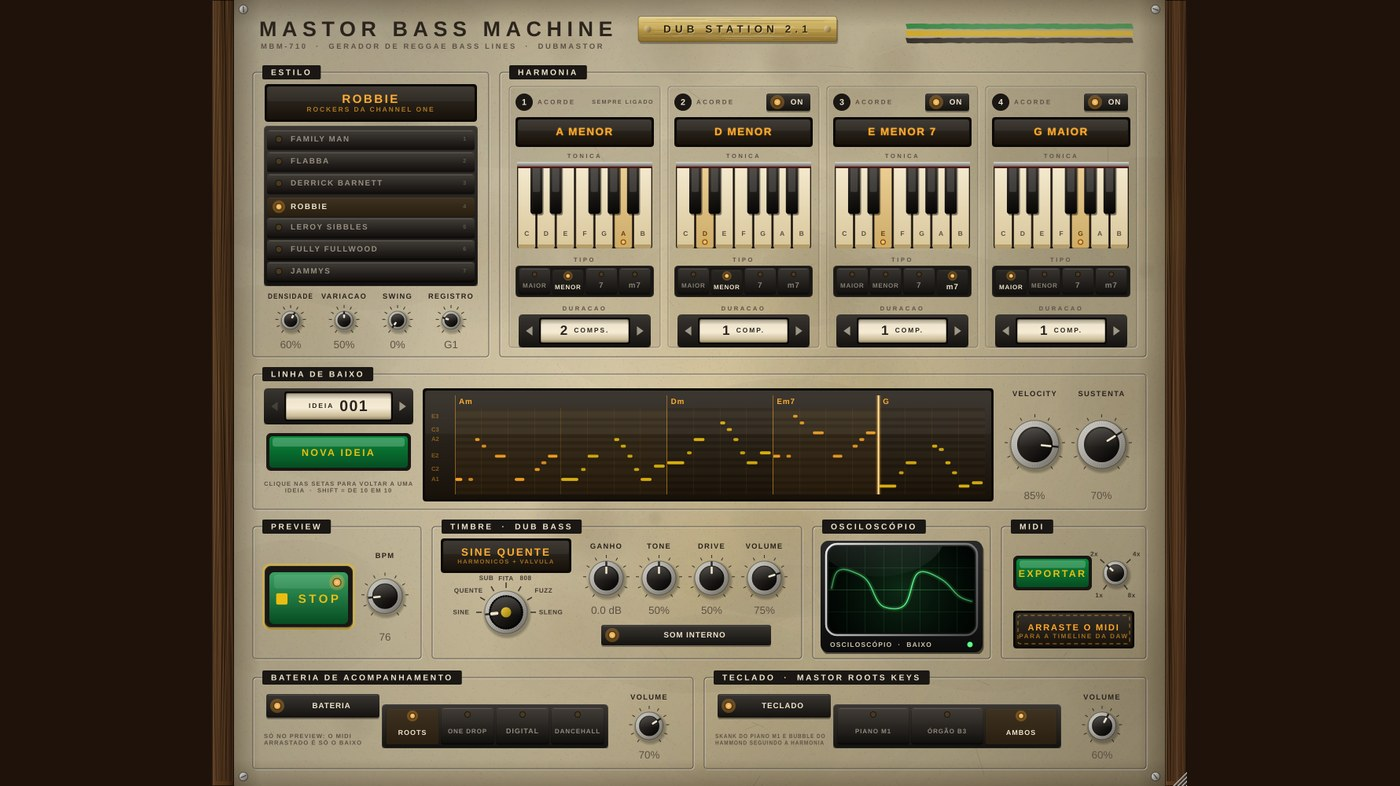
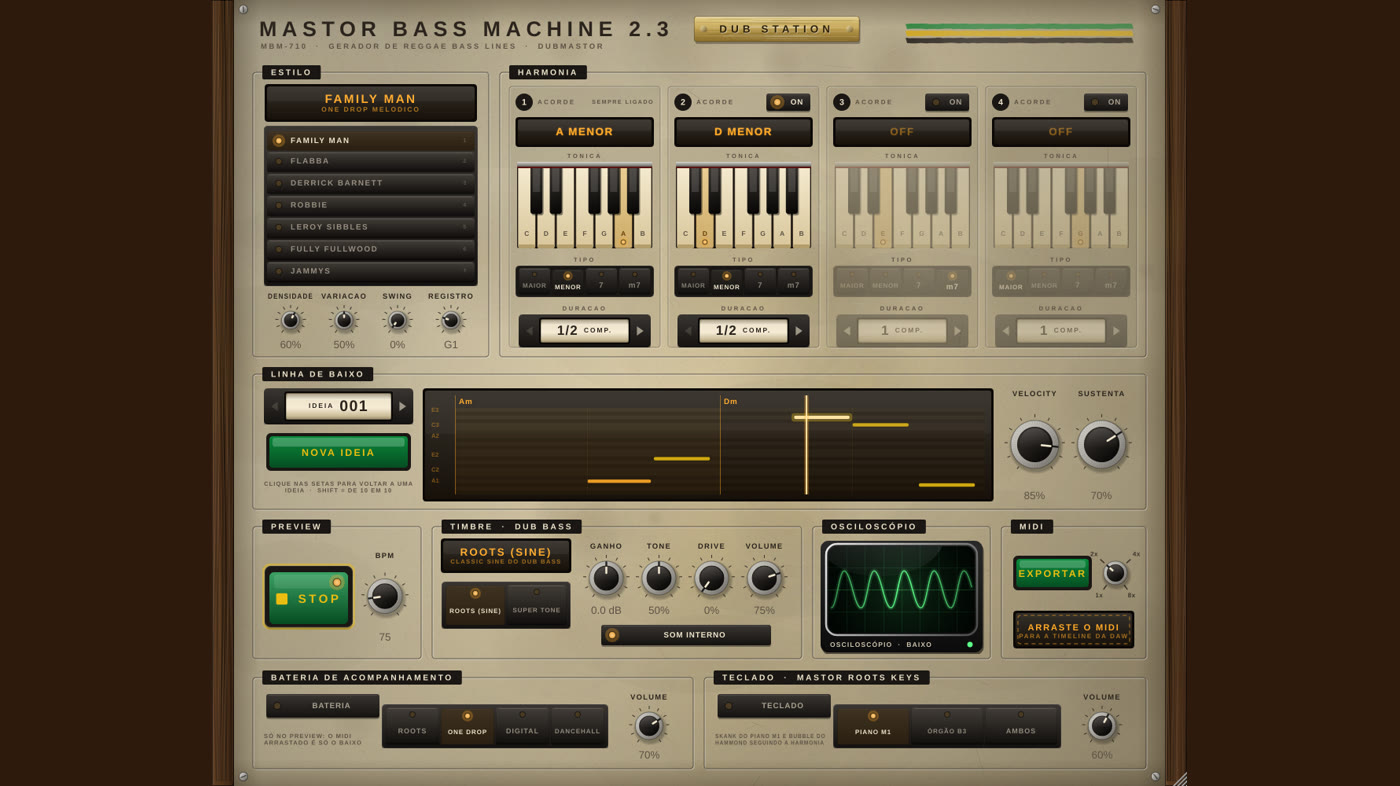
Site: Mastor Bass Machine 2.3 (som de fábrica do Dub Bass, Roots Sine / Super Tone, versão no título)
Claude-Session: https://claude.ai/code/session_01DJAeyZbiJ7iwjCqM3GUBFu

diff --git a/site/index.html b/site/index.html
@@ -327,21 +327,21 @@
         </article>
 
         <article class="card">
-          <img class="shot" src="img/bassmachine.jpg" alt="Interface do Mastor Bass Machine MBM-710 2.1: painel creme com laterais de madeira e plaqueta dourada Dub Station 2.0; botoeira de sete teclas com os baixistas, quatro módulos de acorde com teclado mecânico, visor âmbar com a linha de baixo, botão verde de PLAY, timbres do Dub Bass, osciloscópio verde e, embaixo, a bateria de acompanhamento e o teclado do Roots Keys" width="1400" height="786" loading="lazy">
+          <img class="shot" src="img/bassmachine.jpg" alt="Interface do Mastor Bass Machine MBM-710 2.1: painel creme com laterais de madeira e plaqueta dourada Dub Station; botoeira de sete teclas com os baixistas, quatro módulos de acorde com teclado mecânico, visor âmbar com a linha de baixo, botão verde de PLAY, timbres do Dub Bass, osciloscópio verde e, embaixo, a bateria de acompanhamento e o teclado do Roots Keys" width="1400" height="786" loading="lazy">
           <div class="body">
-            <h3>Mastor Bass Machine <small>2.1</small></h3>
+            <h3>Mastor Bass Machine <small>2.3</small></h3>
             <p><strong>Gerador de Reggae Bass Lines.</strong> Escolha os acordes e o baixista, ouça com o som do Dub Bass, a bateria e o teclado do Roots Keys, e arraste a linha de baixo em MIDI para a timeline para editar.</p>
             <ul>
               <li>Botoeira com 7 baixistas: Family Man, Flabba, Derrick Barnett, Robbie, Leroy Sibbles, Fully Fullwood e Jammys (Sleng Teng)</li>
               <li>Harmonia de até 4 acordes (maior, menor, 7, m7), IDEIA numerada e NOVA IDEIA</li>
-              <li>Timbres do Dub Bass no preview, com o novo SLENG TENG, ganho de entrada e osciloscópio</li>
+              <li>Preview com o som de fábrica do Dub Bass (sem saturação e sem reverb), timbres ROOTS (SINE) e SUPER TONE, ganho de entrada e osciloscópio</li>
               <li>Bateria de acompanhamento Roots, One Drop, Digital e Dancehall</li>
               <li>Teclado do DubMastor Roots Keys: skank do piano M1, bubble do órgão B3 ou os dois</li>
             </ul>
             <div class="formats">Instrumento / gerador MIDI · Windows: VST3 + standalone · Mac: VST3, AU + standalone (Intel e Apple Silicon)</div>
             <div class="dl">
-              <a class="btn" href="https://github.com/dubmastor/DubMastor-DubStation-/releases/download/BassMachine-2.1/MastorBassMachine-Windows.zip">⬇ Windows<span>VST3 · zip</span></a>
-              <a class="btn alt" href="https://github.com/dubmastor/DubMastor-DubStation-/releases/download/BassMachine-2.1/MastorBassMachine-macOS.zip">⬇ Mac<span>VST3 + AU · zip</span></a>
+              <a class="btn" href="https://github.com/dubmastor/DubMastor-DubStation-/releases/download/BassMachine-2.3/MastorBassMachine-Windows.zip">⬇ Windows<span>VST3 · zip</span></a>
+              <a class="btn alt" href="https://github.com/dubmastor/DubMastor-DubStation-/releases/download/BassMachine-2.3/MastorBassMachine-macOS.zip">⬇ Mac<span>VST3 + AU · zip</span></a>
             </div>
           </div>
         </article>
